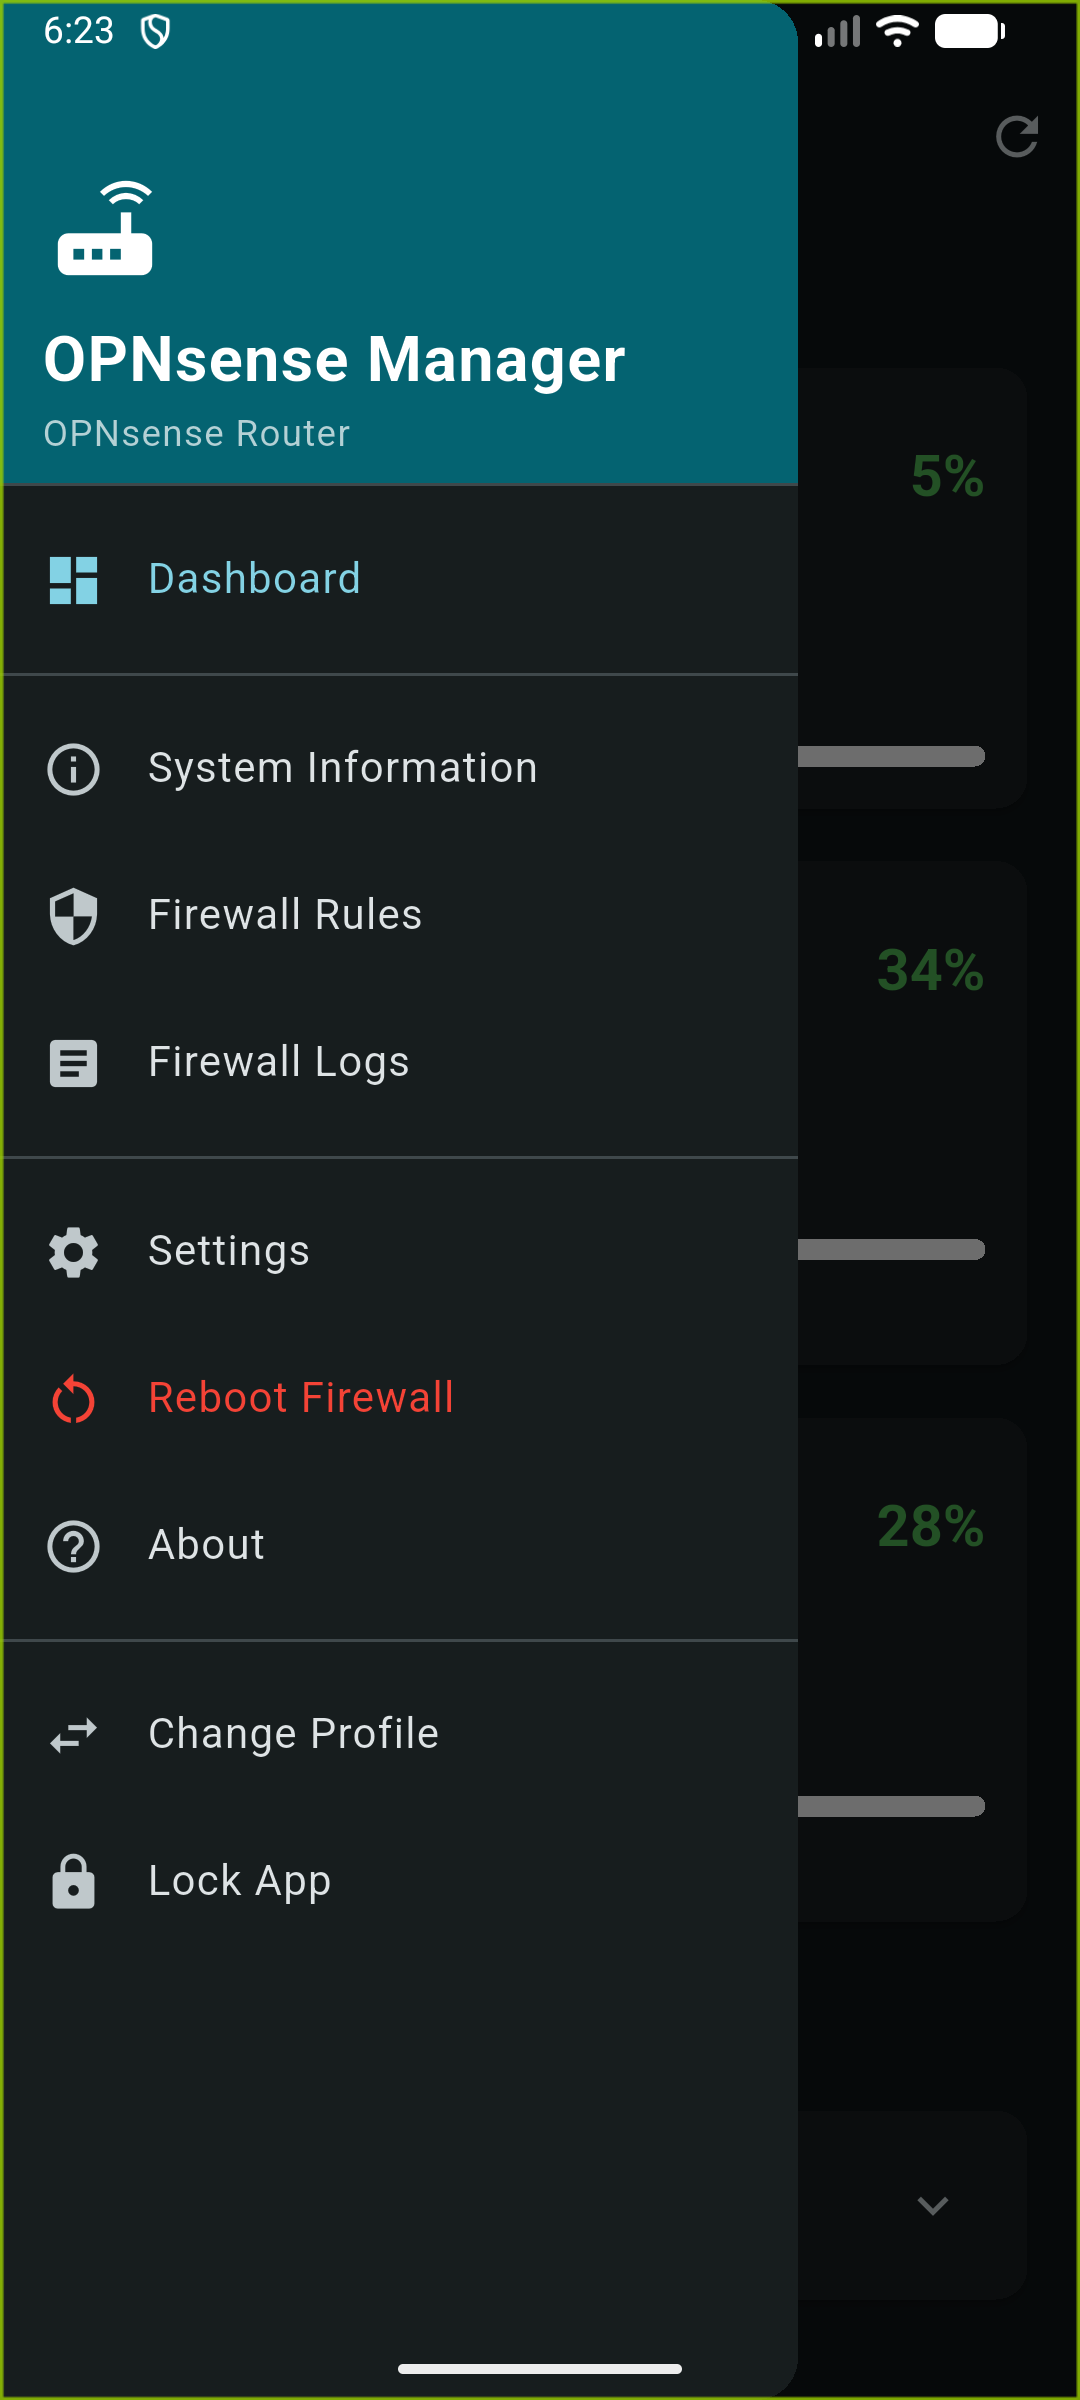
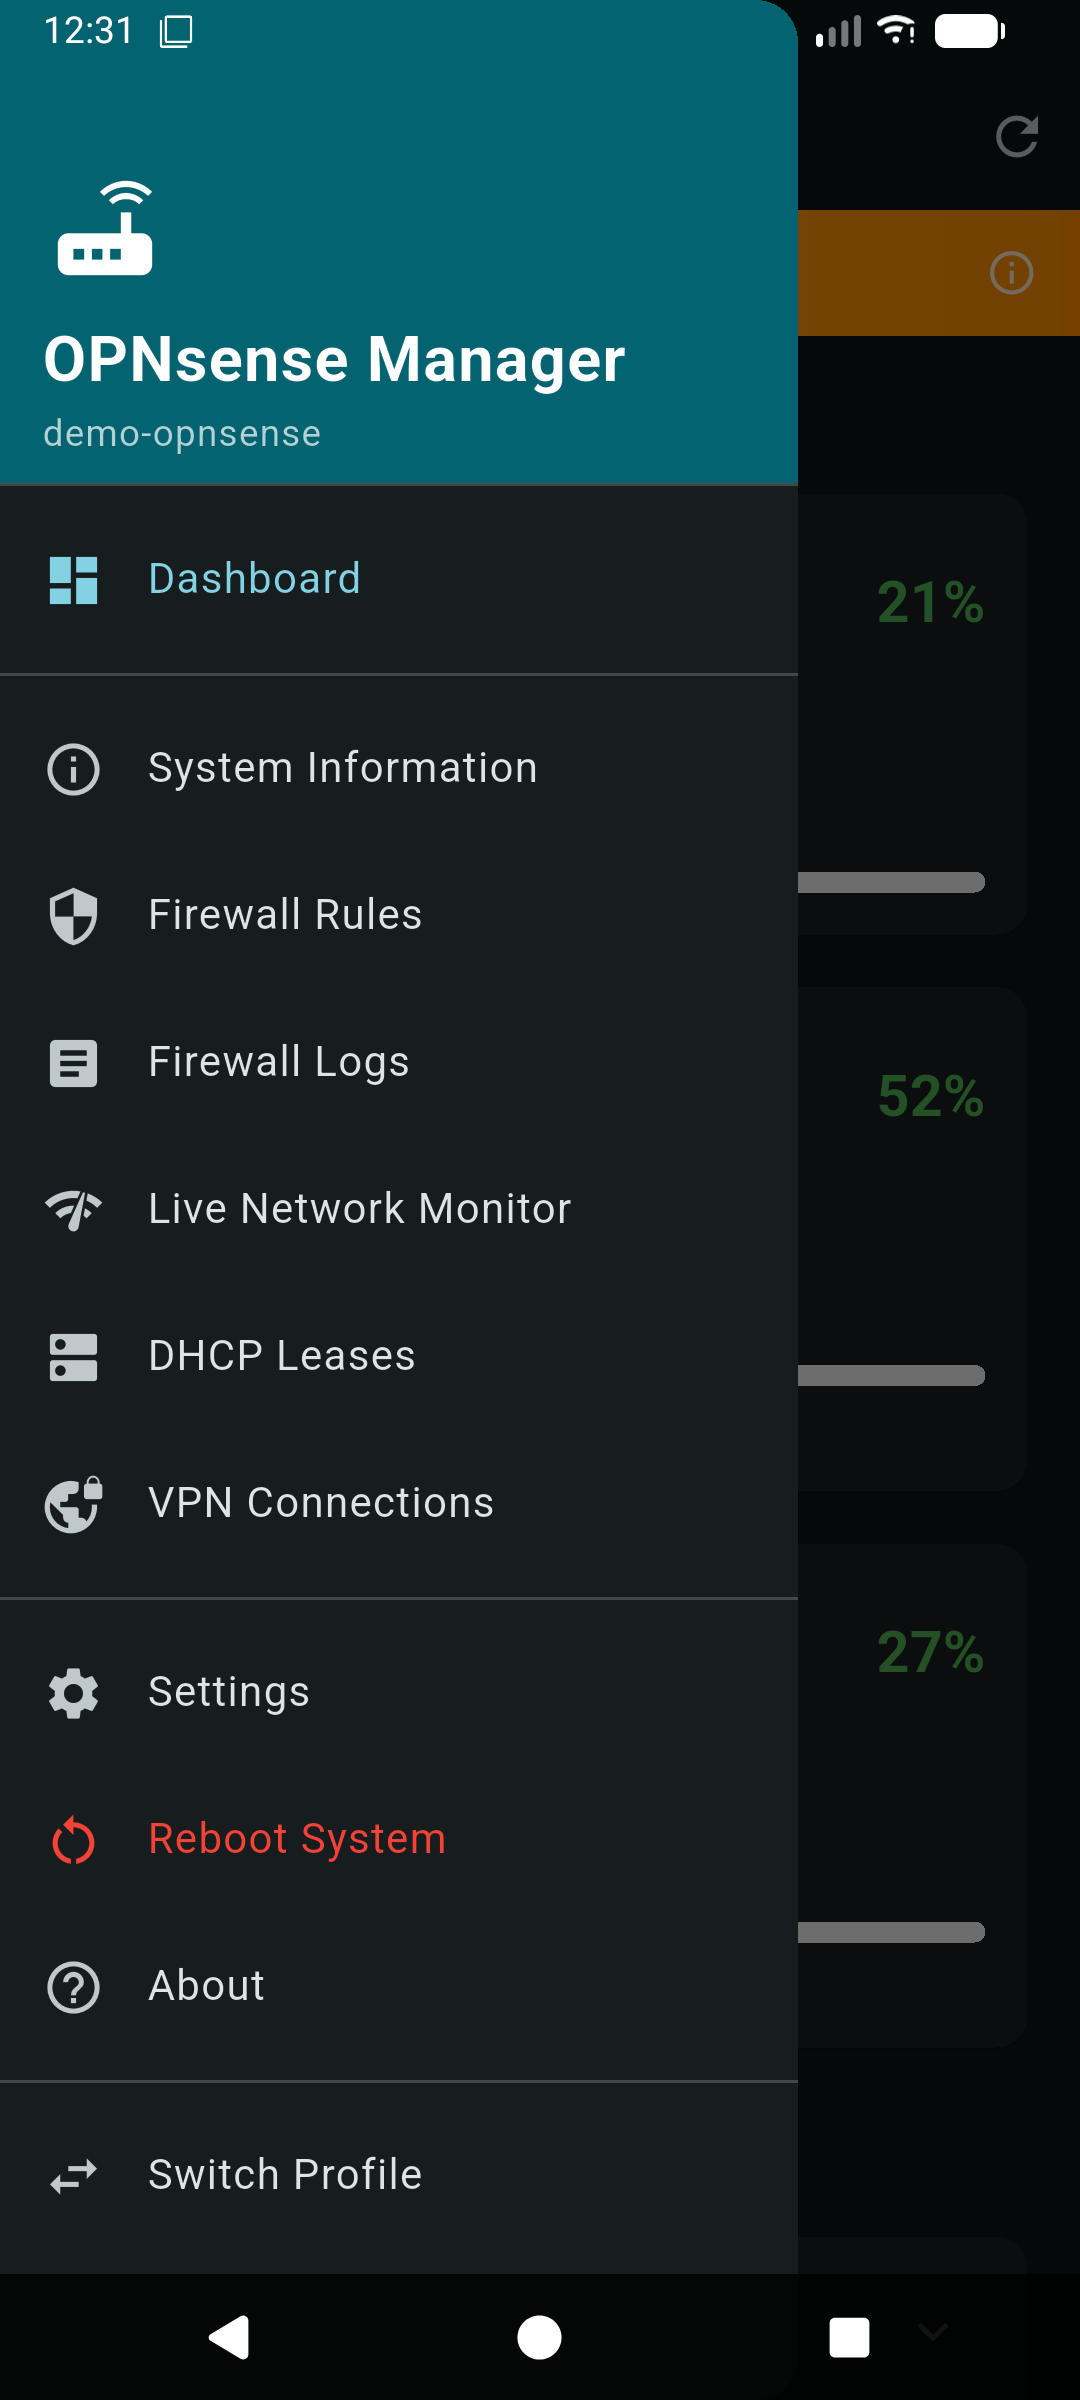
docs: add live network monitoring and DHCP lease management documentation

diff --git a/README.md b/README.md
@@ -47,6 +47,8 @@ If you find this project useful, consider supporting its development:
         <li><a href="#dashboard">📊 Dashboard</a></li>
         <li><a href="#firewall-management">🔥 Firewall Management (Currently only works with "Firewall > Automation > Filter" rules)</a></li>
         <li><a href="#firewall-logs">📋 Firewall Logs</a></li>
+        <li><a href="#live-network-monitoring">🌐 Live Network Monitoring</a></li>
+        <li><a href="#dhcp-leases">📡 DHCP Lease Management</a></li>
         <li><a href="#system-info">ℹ System Information</a></li>
         <li><a href="#service-management">🔧 Service Management</a></li>
         <li><a href="#settings">⚙ Settings</a></li>
@@ -185,6 +187,34 @@ See [CONTRIBUTING.md](CONTRIBUTING.md) for detailed build instructions.
 - **Auto-Refresh**: Configurable automatic log updates (5-60 seconds)
 - **Log Limit**: Adjustable number of log entries displayed
 <img src="screenshots/firewall_logs.png" width="250" alt="Firewall Logs">
+<a id="live-network-monitoring"></a>
+### 🌐 Live Network Monitoring
+- **Real-time Network Activity**: Monitor active connections and network traffic in real-time
+- **Device Discovery**: View all devices currently connected to your network
+- **Connection Details**: See detailed information about each connection including:
+  - Source and destination IP addresses
+  - Ports and protocols
+  - Connection state and duration
+  - Data transfer rates
+- **Device Blocking**: Quickly block devices directly from the network monitor
+- **Auto-Refresh**: Configurable automatic updates to track network changes
+- **Search & Filter**: Find specific devices or connections quickly
+<img src="screenshots/live_network_monitor.png" width="250" alt="Live Network Monitor">
+
+<a id="dhcp-leases"></a>
+### 📡 DHCP Lease Management
+- **Active Leases**: View all current DHCP leases on your network
+- **Lease Details**: Complete information for each lease including:
+  - IP address assignments
+  - MAC addresses
+  - Hostnames
+  - Lease start and end times
+  - Interface information
+- **Device Blocking**: Block devices directly from the DHCP leases view
+- **Search Functionality**: Quickly find specific devices by IP, MAC, or hostname
+- **Pull-to-Refresh**: Update lease information on demand
+<img src="screenshots/dhcp_leases.png" width="250" alt="DHCP Leases">
+
 
 <a id="system-info"></a>
 ### ℹ System Information
@@ -270,7 +300,8 @@ See [CONTRIBUTING.md](CONTRIBUTING.md) for detailed build instructions.
 - [ ] Traffic monitoring with detailed charts
 - [ ] Bandwidth quota management
 - [ ] Interface statistics and graphs
-- [ ] DHCP lease management
+- [x] **DHCP lease management** - View active leases and block devices
+- [x] **Live network monitoring** - Real-time network activity monitoring with device blocking capability
 - [ ] DNS configuration
 - [ ] Certificate management
 - [ ] User management interface
